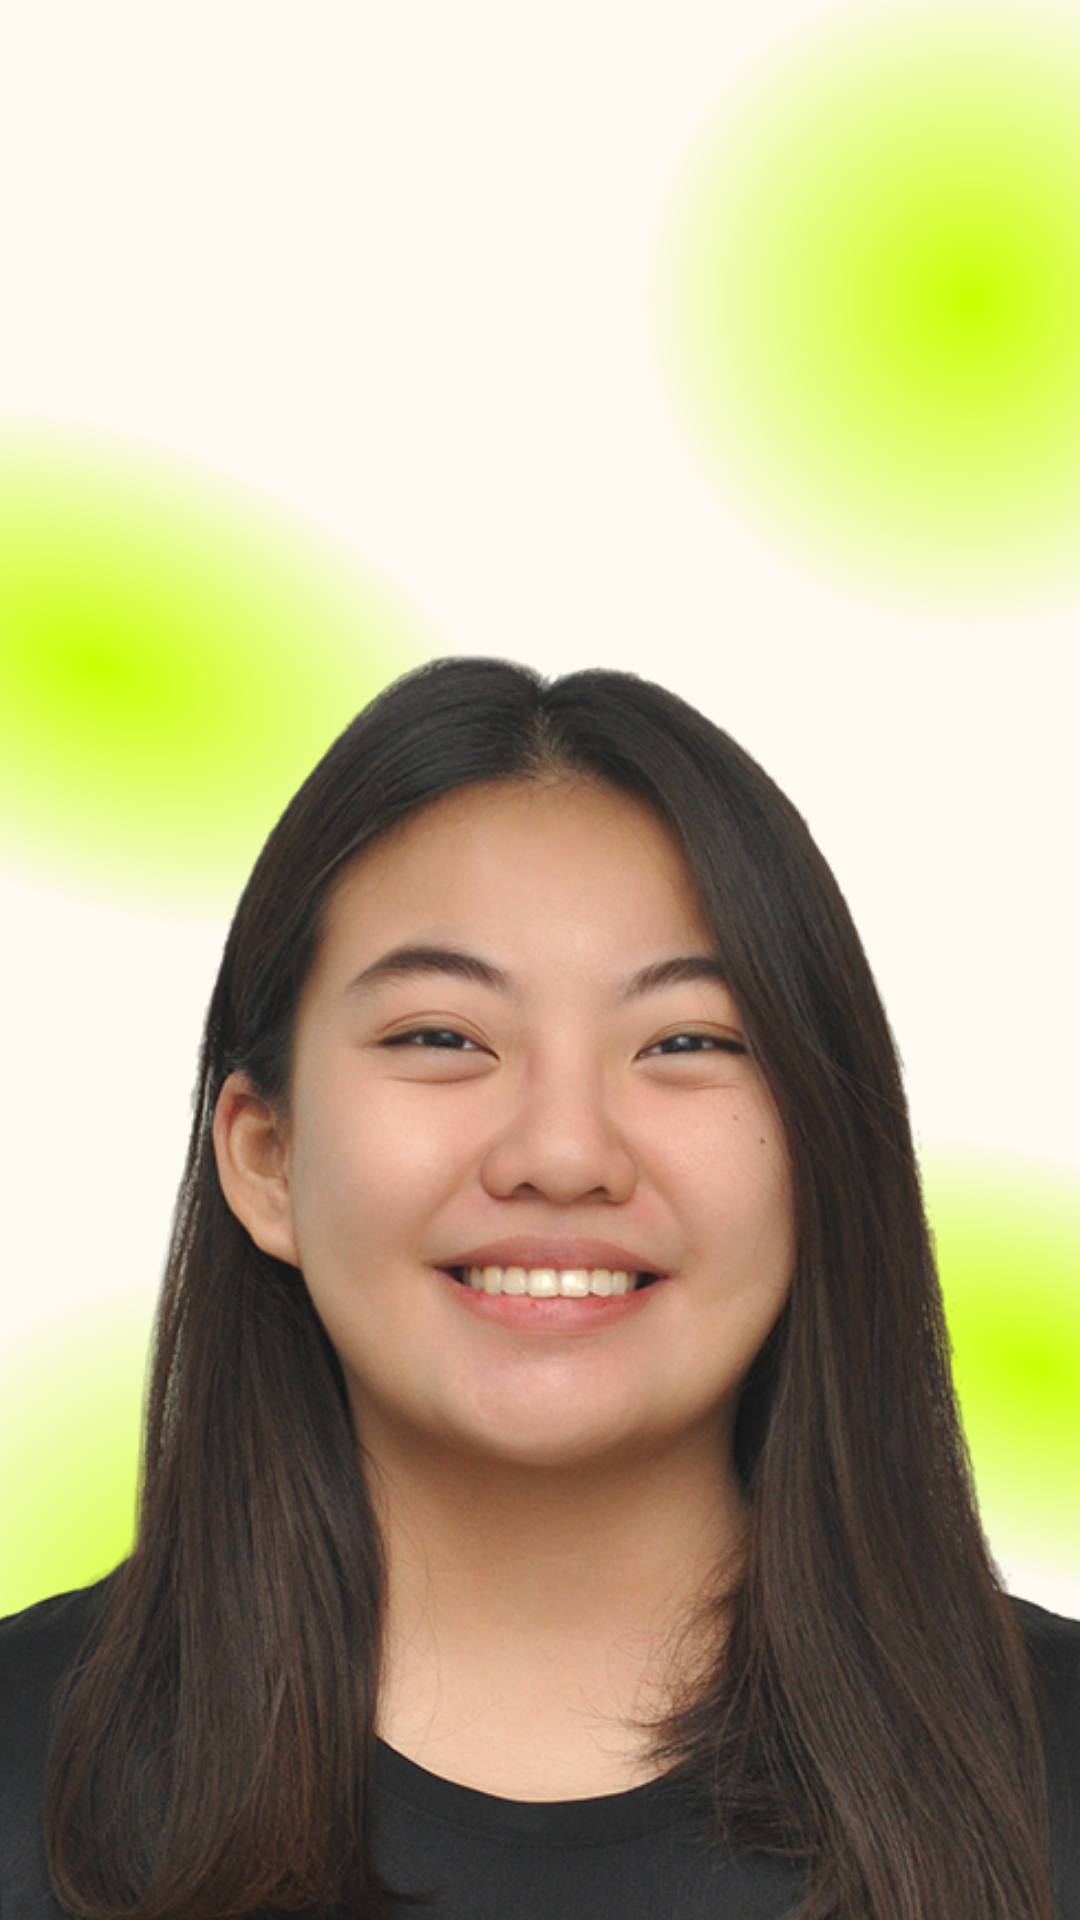
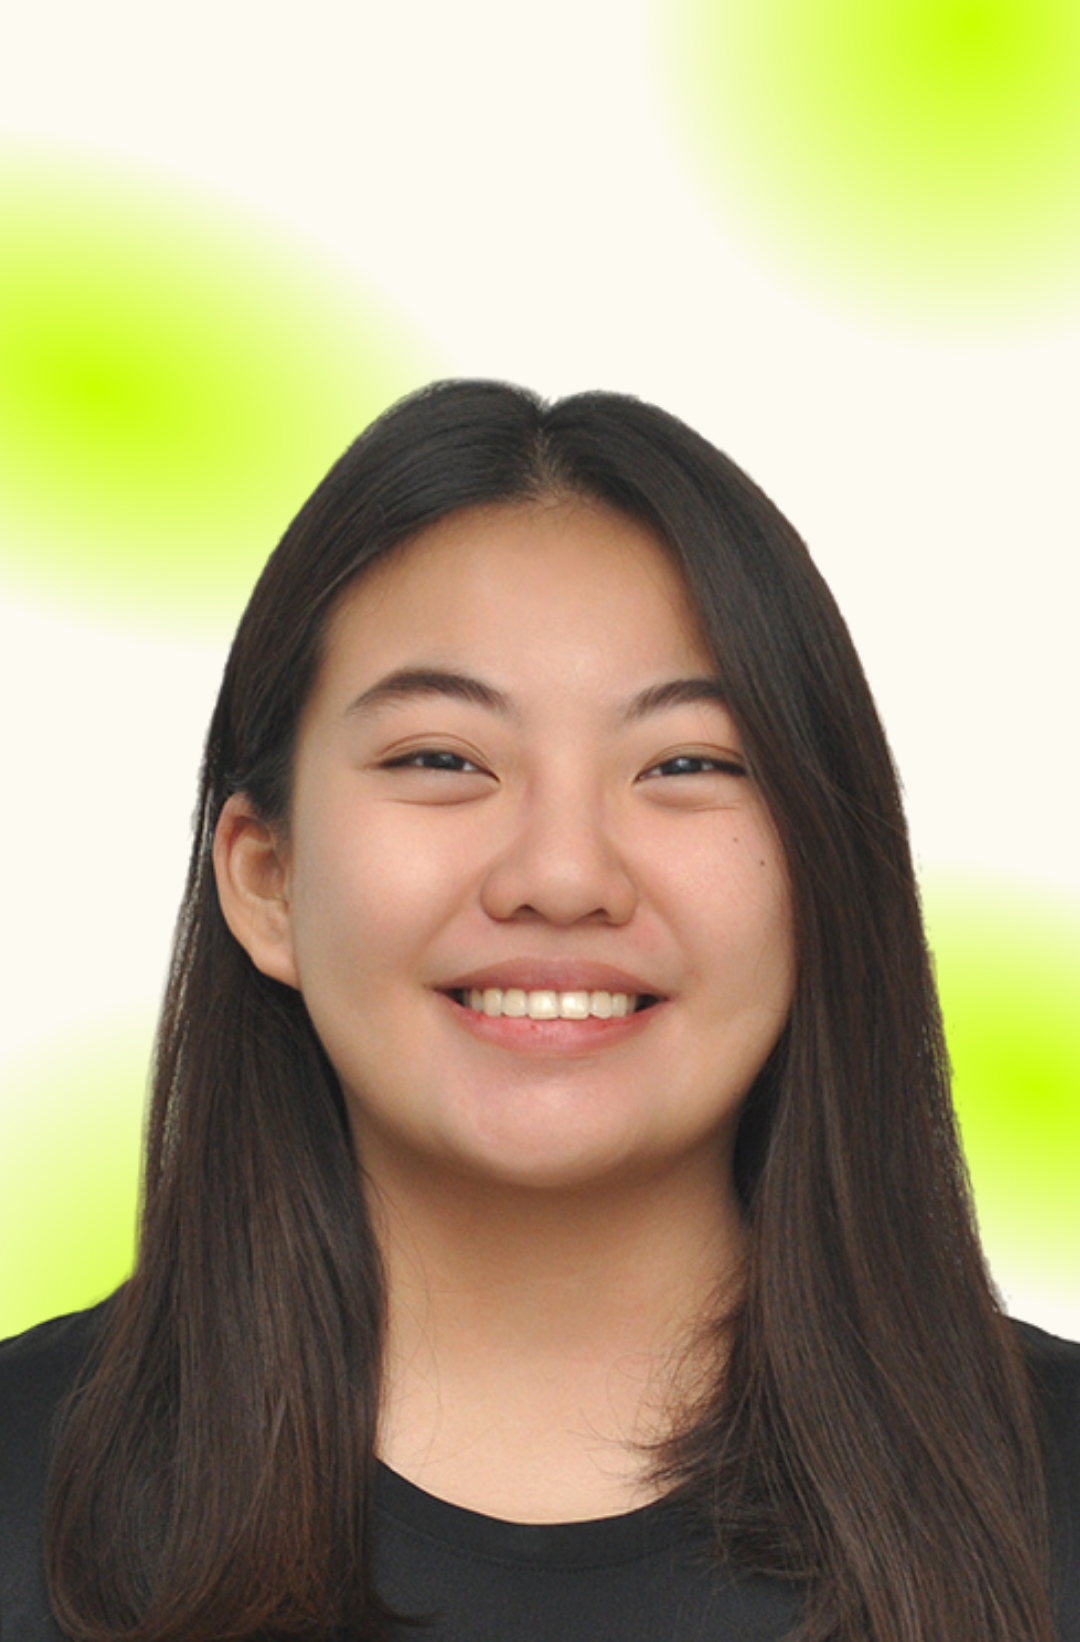
improved spacing

diff --git a/index.html b/index.html
@@ -42,27 +42,27 @@
 
 
 <!-- Intro Section Start-->
-
-<section class="row mx-5">
-	<figcaption class="m-5 col-12 col-md-7"> 
-		<h1 class="fw-bold"> Hello! I'm Aly, a Full-Stack Web Developer based in Zambales.</h1>
-		<div class="card mt-5">
-		  	<div class="card-body-intro">
-				<p> I love building tools that are dynamic, user-friendly and simple.</p>
-				<p>I was a student at Zuitt Learning Institute where I spent two months learning the fundamentals and essential concepts of both front-end and back-end web development</p>
-				<p>I am a proud career shifter coming from the field of Psychology and is working towards the niche of tech field. My goal is to help you through high-quality services.</p>
-				<p class="fw-semibold"> Alyanna Marie P. Valencia </p>
+<section class="container-fluid text-center mb-5">
+	<div class="row">
+		<figcaption class="p-5 col-12 col-md-12 col-lg-7"> 
+			<h1 class="fw-bold"> Hello! I'm Aly, a Full-Stack Web Developer based in Zambales.</h1>
+			<div class="card ms-5 mt-5">
+			  	<div class="card-body-intro">
+					<p> I love building tools that are dynamic, user-friendly and simple.</p>
+					<p>I was a student at Zuitt Learning Institute where I spent two months learning the fundamentals and essential concepts of both front-end and back-end web development</p>
+					<p>I am a proud career shifter coming from the field of Psychology and is working towards the niche of tech field. My goal is to help you through high-quality services.</p>
+					<p class="fw-semibold"> Alyanna Marie P. Valencia </p>
+				</div>
 			</div>
-		</div>
-			
-	</figcaption>
-	
-	<figure class="mt-4 col-12 col-md-4">
-		<div>
-			<img src="./images/1.png" class="w-75 img-fluid shadow-lg">
-		</div>
-	</figure>
-
+				
+		</figcaption>
+		
+		<figure class="p-5 col-12 col-lg-5">
+			<div>
+				<img src="./images/1.png" class="w-100 img-fluid shadow-lg">
+			</div>
+		</figure>
+	</div>
 </section>
 
 <!-- Intro Section End -->
